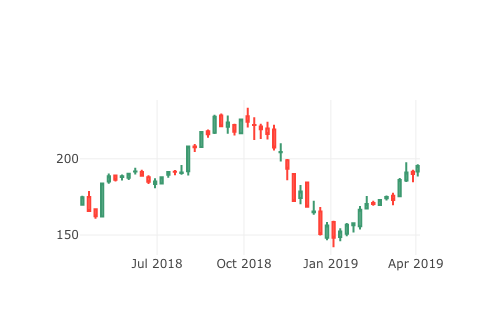
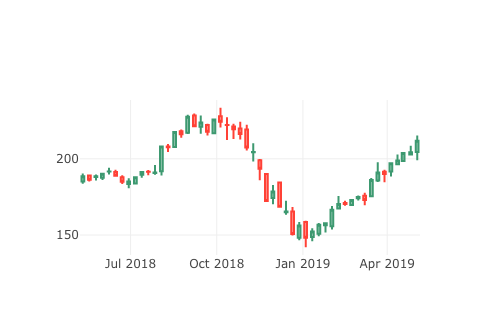
Draw and dowload tasks are set for celery

Changed region(s): [[0.51, 0.4179, 0.84, 0.7463], [0.15, 0.3284, 0.57, 0.6567], [0.21, 0.7761, 0.9, 0.806]]

diff --git a/scripts/plotly_image.py b/scripts/plotly_image.py
@@ -5,26 +5,7 @@ import plotly.plotly as py
 import plotly.graph_objs as go
 import plotly.io as pio
 import os
-
-def generate_image(path_to_data, weeks=52, output_folder=''):
-    if not os.path.isfile(path_to_data):
-        print("Wrong file path: " + path_to_data)
-        return
-    df = pd.read_csv(path_to_data)
-    df['timestamp'] = pd.to_datetime(df['timestamp'], errors='ignore')
-    last_df = df.head(weeks)
-    trace = go.Candlestick(x=df.timestamp,
-                           open=last_df.open,
-                           high=last_df.high,
-                           low=last_df.low,
-                           close=last_df.close)
-    layout = go.Layout(xaxis = dict(rangeslider = dict(visible = False)))
-    fig = go.Figure(data=[trace],layout=layout)
-    base_name = os.path.basename(path_to_data)
-    image_path = output_folder + "/" + os.path.splitext(base_name)[0] + '.png'
-    pio.write_image(fig, image_path, width=500, height=335)
-    print("Successfully created image " + image_path)
-
+from shared.plotly_draw import generate_image
 
 parser = argparse.ArgumentParser(description='Generates a candlestick chart using a historical data.')
 parser.add_argument('data', metavar='data', type=str, help='csv file with historical data')

diff --git a/shared/plotly_draw.py b/shared/plotly_draw.py
@@ -1,0 +1,25 @@
+import pandas as pd
+import plotly
+import plotly.plotly as py
+import plotly.graph_objs as go
+import plotly.io as pio
+import os
+
+def generate_image(path_to_data, weeks=52, output_folder=''):
+    if not os.path.isfile(path_to_data):
+        print("Wrong file path: " + path_to_data)
+        return
+    df = pd.read_csv(path_to_data)
+    df['timestamp'] = pd.to_datetime(df['timestamp'], errors='ignore')
+    last_df = df.head(weeks)
+    trace = go.Candlestick(x=df.timestamp,
+                           open=last_df.open,
+                           high=last_df.high,
+                           low=last_df.low,
+                           close=last_df.close)
+    layout = go.Layout(xaxis = dict(rangeslider = dict(visible = False)))
+    fig = go.Figure(data=[trace],layout=layout)
+    base_name = os.path.basename(path_to_data)
+    image_path = output_folder + "/" + os.path.splitext(base_name)[0] + '.png'
+    pio.write_image(fig, image_path, width=500, height=335)
+    print("Successfully created image " + image_path)

diff --git a/stocks/tasks.py b/stocks/tasks.py
@@ -2,17 +2,24 @@ from __future__ import absolute_import, unicode_literals
 import os
 from celery import task
 from shared.download_data import get_payload, download_data
-from stocks.models import models
+from shared.plotly_draw import generate_image
+from shared.keys import ALPHA_DOWNLOAD_KEY, PLOTLY_KEY
+from stocks.models import Share
 
 
 @task()
 def download_data_task():
     root_path = os.path.abspath(os.path.dirname(__name__))
     storage_path = root_path + '/static/data'
-    download_data('AAPL', 'demo', storage_path)
+    for share in Share.objects.all():
+        download_data(share.ticker, ALPHA_DOWNLOAD_KEY, storage_path)
 
 
 @task()
 def draw_plot_task():
     root_path = os.path.abspath(os.path.dirname(__name__))
+    data_path = root_path + '/static/data'
     storage_path = root_path + '/static/img/stocks'
+    for share in Share.objects.all():
+        csv_path = data_path + '/' + share.ticker + '.csv'
+        generate_image(csv_path, 52, storage_path)

diff --git a/EasyStocks/settings.py b/EasyStocks/settings.py
@@ -132,9 +132,14 @@ REDIS_PORT = '6379'
 BROKER_URL = 'redis://' + REDIS_HOST + ':' + REDIS_PORT + '/0'
 CELERY_RESULT_BACKEND = 'redis://' + REDIS_HOST + ':' + REDIS_PORT + '/0'
 CELERY_BEAT_SCHEDULE = {
-    'task-number-one': {
+    'download_data_task': {
         'task': 'stocks.tasks.download_data_task',
-        # 'schedule': crontab(minute=0, hour='10'),
-        'schedule' : 30,
+        'schedule': 60,
+        # 'schedule': crontab(minute=20, hour=20),
     },
+    'draw_image_task': {
+        'task': 'stocks.tasks.draw_plot_task',
+        'schedule': 120,
+        # 'schedule': crontab(minute=20, hour=20),
+    }
 }
